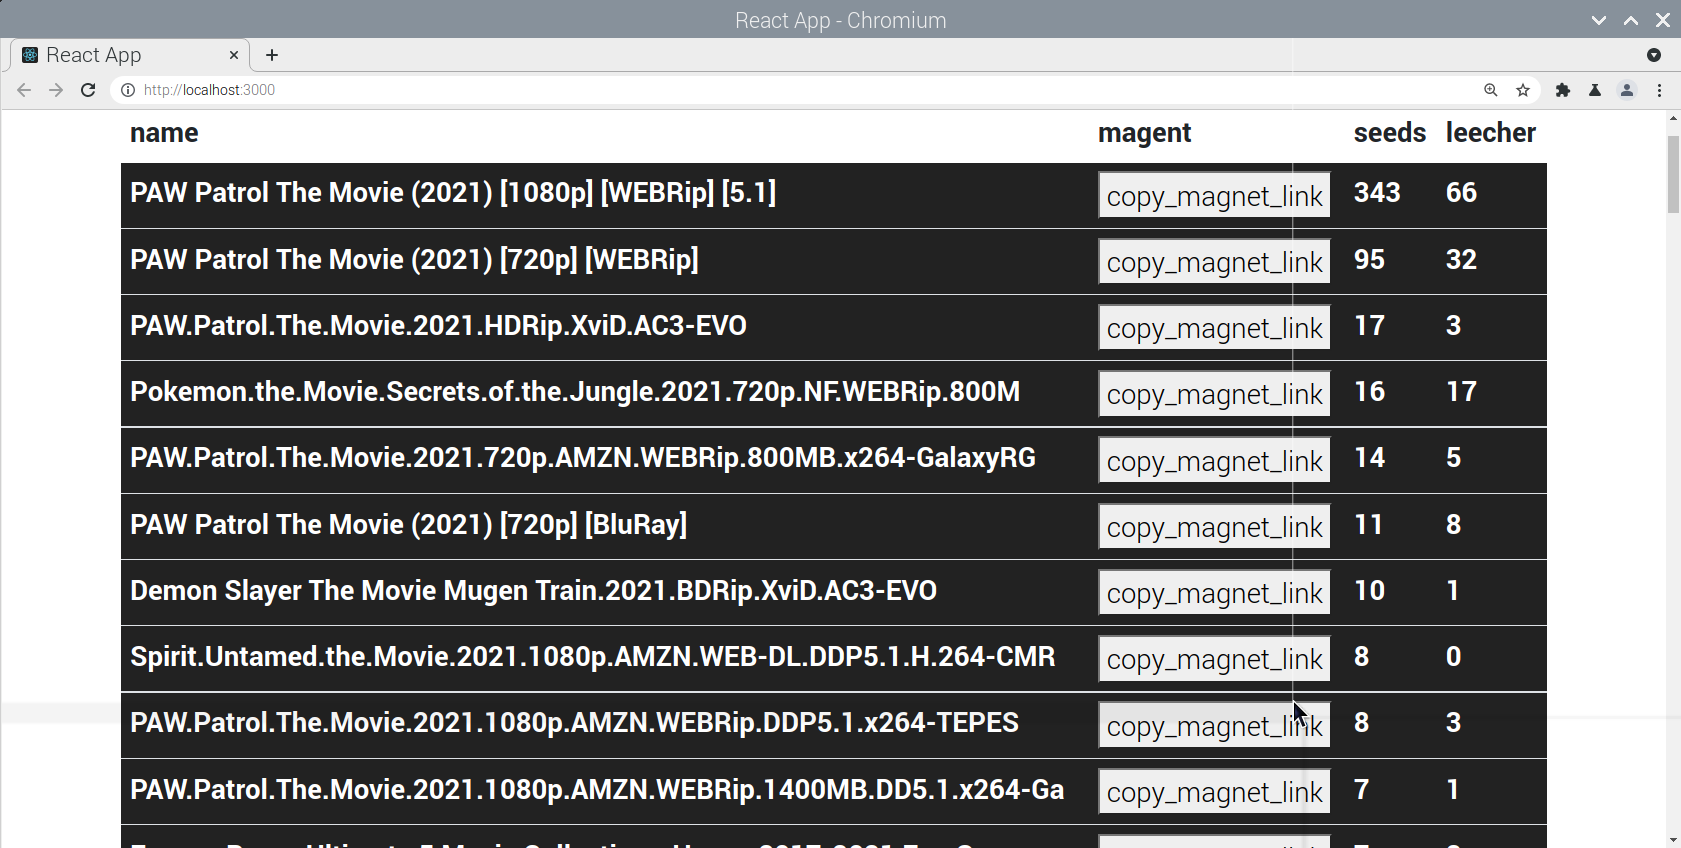
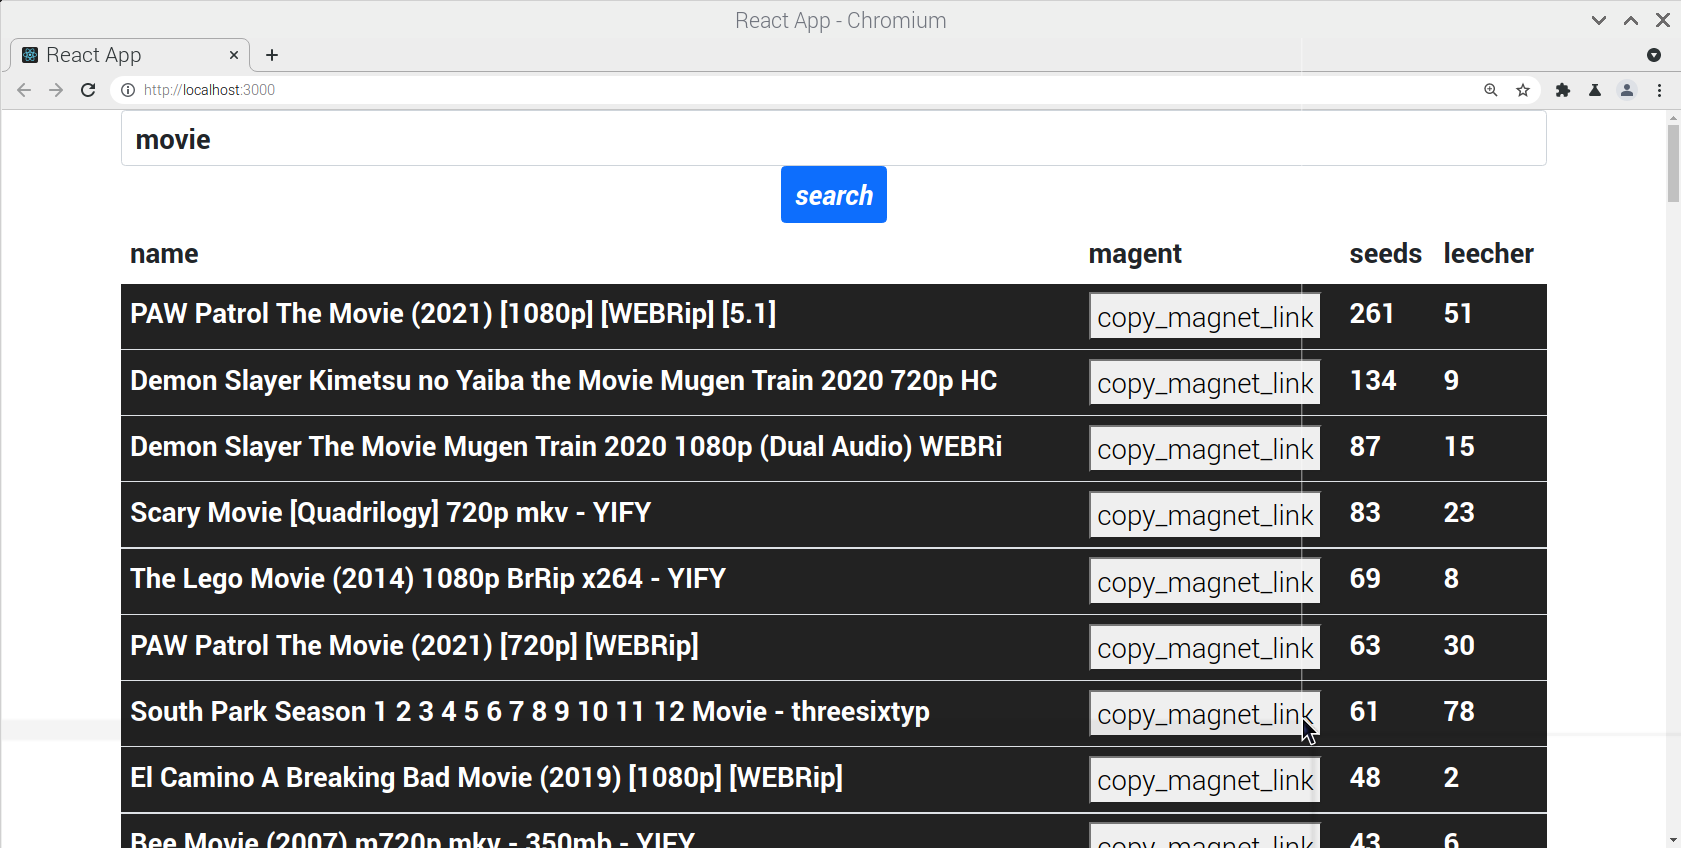
added style

diff --git a/src/App.js b/src/App.js
@@ -57,7 +57,7 @@ class App extends Component {
   <div className="container text-center">
     <input style={{"font-weight":"bold","font-size":"25px"}} onChange={(e)=>{this.setState({search:e.target.value}); this.fetch()}} type="search" id="form1" className="form-control" />
       <button onClick={this.fetch} type="button" className="btn btn-primary">
-    <i className="fas fa-search">search</i>
+    <i style={{"font-weight":"bold","font-size":"25px"}} className="fas fa-search">search</i>
   </button>
   </div>
 
